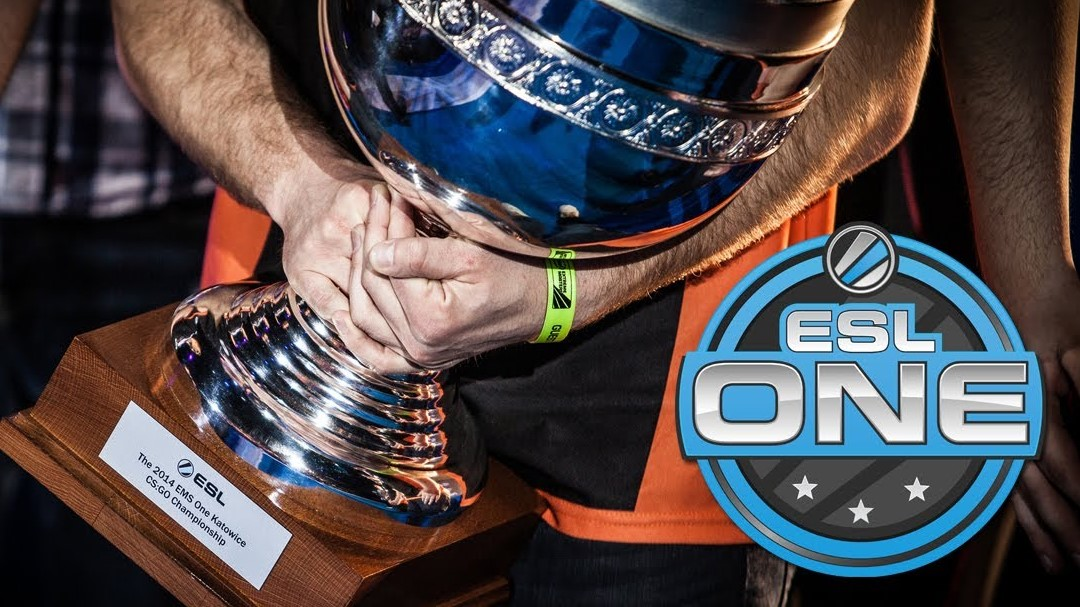
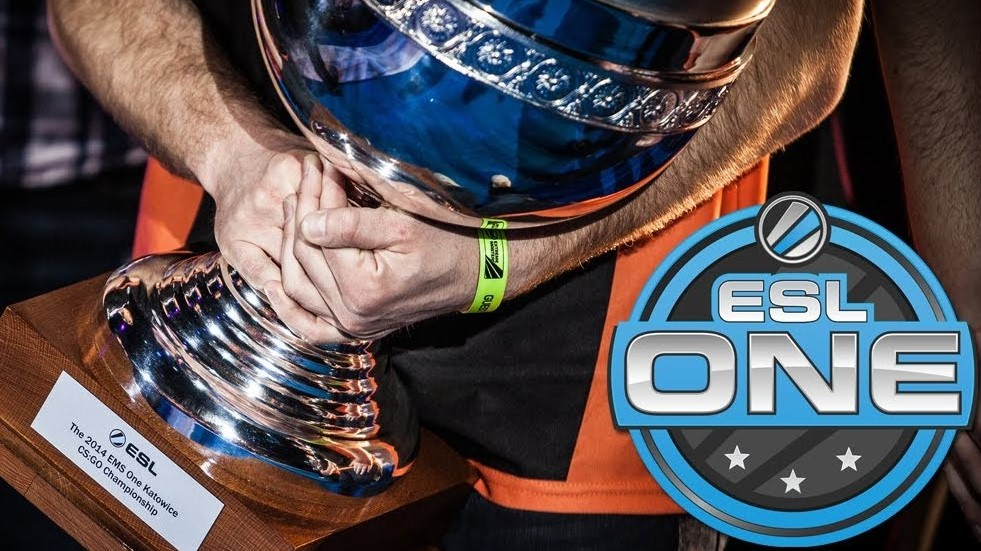
index imagee formatting, contact card formatting

diff --git a/contact.html b/contact.html
@@ -43,7 +43,7 @@
         <section class="hero is-black is-medium">
             <div class="hero-body heroBgContact">
               <div class="container">
-                <h1 class="title heroText">Meat the team! ;)</h1>
+                <h1 class="title heroText is-size-1">Team SD</h1>
               </div>
             </div>
         </section>
@@ -51,98 +51,105 @@
         <section class="section">
             <div class="container">
                 <div class="columns">
-                    <div class="card column">
-                        <div class="card-image">
-                          <figure class="image is-4by3">
-                            <img src="./images/areYouWorking.PNG" alt="Placeholder image">
-                          </figure>
-                        </div>
-                        <div class="card-content">
-                          <div class="media">
-                            <div class="media-content">
-                              <p class="title is-4">Matty McMattface</p>
-                              <p class="subtitle is-6">@wheaties5588</p>
-                            </div>
-                          </div>                      
-                          <div class="content">
-                            Lorem ipsum dolor sit amet, consectetur adipiscing elit.
-                            Phasellus nec iaculis mauris.<br> Don't just look it-- eat it!
+                  <div class="column">
+                      <div class="card box contactCard">
+                          <div class="card-image">
+                            <figure class="image is-4by3">
+                              <img src="./images/dota2logo.jpg" alt="mattGame">
+                            </figure>
                           </div>
-                        </div>
-                    </div>
-                    <div class="card column">
-                        <div class="card-image">
-                          <figure class="image is-4by3">
-                            <img src="./images/areYouWorking.PNG" alt="Placeholder image">
-                          </figure>
-                        </div>
-                        <div class="card-content">
-                          <div class="media">
-                            <div class="media-content">
-                              <p class="title is-4">Jasony McJasonface</p>
-                              <p class="subtitle is-6">@WRXjasonSTI</p>
+                          <div class="card-content">
+                            <div class="media">
+                              <div class="media-content">
+                                <p class="title is-4 contactText">Matt Wieciech<br>
+                                <a href="https://github.com/wheaties5588" target="_blank" class="content contactText">@wheaties5588</a></p>
+                              </div>
+                            </div>                      
+                            <div class="content contactText">
+                              Captain. Javascript Guru.
+                              <br>Game of Choice - Dota 2. 
+                              <br><br>Don't just look it-- eat it!
                             </div>
-                          </div>                      
-                          <div class="content">
-                            Lorem ipsum dolor sit amet, consectetur adipiscing elit.
-                            Phasellus nec iaculis mauris.<br> Don't just look it-- eat it!
                           </div>
-                        </div>
-                    </div>
-                    <div class="card column">
+                      </div>
+                  </div>
+
+                  <div class="column">
+                    <div class="card box contactCard">
                         <div class="card-image">
                           <figure class="image is-4by3">
-                            <img src="./images/areYouWorking.PNG" alt="Placeholder image">
+                            <img src="./images/lollogo.jpg" alt="andrewGame">
                           </figure>
                         </div>
                         <div class="card-content">
                           <div class="media">
                             <div class="media-content">
-                              <p class="title is-4">Andrewy McAndface</p>
-                              <p class="subtitle is-6">@johnsmith</p>
+                              <p class="title is-4 contactText">Andrew Raines<br>
+                              <a href="https://github.com/rainesand" target="_blank" class="content contactText">@rainesand</a></p>
                             </div>
                           </div>                      
-                          <div class="content">
-                            Lorem ipsum dolor sit amet, consectetur adipiscing elit.
-                            Phasellus nec iaculis mauris.<br> Don't just look it-- eat it!
-                          </div>
-                        </div>
-                    </div>
-                    <div class="card column">
-                        <div class="card-image">
-                          <figure class="image is-4by3">
-                            <img src="./images/areYouWorking.PNG" alt="Placeholder image">
-                          </figure>
-                        </div>
-                        <div class="card-content">
-                          <div class="media">
-                            <div class="media-content">
-                              <p class="title is-4">Brandony McBrandface</p>
-                              <p class="subtitle is-6">@johnsmith</p>
-                            </div>
-                          </div>                      
-                          <div class="content">
-                            Lorem ipsum dolor sit amet, consectetur adipiscing elit.
-                            Phasellus nec iaculis mauris.<br> Don't just look it-- eat it!
+                          <div class="content contactText">
+                            Lead Researcher. API Guru.
+                            <br>Game of Choice - League of Legends. 
+                            <br><br>Don't just look it-- eat it!
                           </div>
                         </div>
                     </div>
                 </div>
+
+                  <div class="column">
+                    <div class="card box contactCard">
+                        <div class="card-image">
+                          <figure class="image is-4by3">
+                            <img src="./images/pc2logo.jpg" alt="jasonGame">
+                          </figure>
+                        </div>
+                        <div class="card-content">
+                          <div class="media">
+                            <div class="media-content">
+                              <p class="title is-4 contactText">Jason Cruz<br>
+                              <a href="https://github.com/WRXjasonSTI" target="_blank" class="content contactText">@WRXjasonSTI</a></p>
+                            </div>
+                          </div>                      
+                          <div class="content contactText">
+                            Key Designer. CSS Guru.
+                            <br>Game of Choice - Project Cars 2. 
+                            <br><br>Don't just look it-- eat it!
+                          </div>
+                        </div>
+                    </div>
+                </div>
+
+                <div class="column">
+                  <div class="card box contactCard">
+                      <div class="card-image">
+                        <figure class="image is-4by3">
+                          <img src="./images/ssblogo.png" alt="brandonGame">
+                        </figure>
+                      </div>
+                      <div class="card-content">
+                        <div class="media">
+                          <div class="media-content">
+                            <p class="title is-4 contactText">Brandon Perez<br>
+                            <a href="https://github.com/bperez94" target="_blank" class="content contactText">@bperez94</a></p>
+                          </div>
+                        </div>                      
+                        <div class="content contactText">
+                          Foundation. HTML Architect.
+                          <br>Game of Choice - SSB Ultimate. 
+                          <br><br>Don't just look it-- eat it!
+                        </div>
+                      </div>
+                  </div>
+              </div>
+
+                </div>
             </div>
         </section>
         
-        <footer class="footer heroBgContact">
+        <footer class="footer">
             <div class="container">
                 <div class="columns is-mobile is-multiline">
-                    <div class="column is-half-mobile is-one-quarter-desktop">
-                        <h6 class="title is-5">Our Team</h6>
-                            <ul>
-                                <li><a href="https://github.com/wheaties5588" target="_blank"><strong>MW</strong> - Matt Wieciech</a></li>
-                                <li><a href="https://github.com/rainesand" target="_blank"><strong>AR</strong> - Andrew Raines</a></li>
-                                <li><a href="https://github.com/bperez94" target="_blank"><strong>BP</strong> - Brandon Perez</a></li>
-                                <li><a href="https://youtu.be/dQw4w9WgXcQ" target="_blank"><strong>JC</strong> - Jason Cruz</a></li>
-                            </ul>
-                    </div>
                     <div class="column is-half-mobile is-one-half-desktop">
                         <h6 class="title is-5">App Information</h6>
                         <p style="color: black;">Select Difficulty is a website built for entertainment, education, and live information. <br>

diff --git a/scripts/app.js b/scripts/app.js
@@ -61,7 +61,7 @@ $(document).ready(function () {
                  dropList.append(ddItem);
              }
                  
-             //Dropdown item on click evennt to pull tournaments
+             //Dropdown item on click event to pull tournaments
              $("#dropdownContent").on("click", function(ev) {
                 ev.preventDefault();
                 var target = $(ev.target);
@@ -77,7 +77,9 @@ $(document).ready(function () {
                 var tourneyName = $("<div>");
                 var tName = $("<p>");
                 var tUpcomingSub = $("<p>");
-                tourneyName.addClass("tournamentName")
+                tourneyName.addClass("tournamentName contactCard")
+                tName.addClass("contactText")
+                tUpcomingSub.addClass("contactText")
                 tName.text(response[index].serie.full_name + " - " + response[index].league.name  + " - " + response[index].name);
                 
                 if (game == "/ow/tournaments"){
@@ -91,9 +93,9 @@ $(document).ready(function () {
                 
                 for (i = 0; i < response[index].matches.length; i++) {
                     var div = $("<div>").addClass("matchupDiv");
-                    var name = $("<p>").addClass("matchupName");
-                    var time = $("<p>").addClass("matchupTime");
-                    var matchDate = $("<p>").addClass("matchupDate");
+                    var name = $("<p>").addClass("matchupName contactText");
+                    var time = $("<p>").addClass("matchupTime contactText");
+                    var matchDate = $("<p>").addClass("matchupDate contactText");
                     
                     
                     name.text(response[index].matches[i].name)

diff --git a/styles/styles.css b/styles/styles.css
@@ -148,8 +148,16 @@ h3 {
 }
 
 .heroBgContact {
-    background-image: url(../images/ourTeam.jpg);
+    background-image: url(../images/f1.jpg);
     background-repeat:  no-repeat;
     background-size:  cover;
     background-color: #999;
+}
+
+.contactCard {
+    background-color: #12121C;
+}
+
+.contactText {
+    color: #80E2E5;
 }

diff --git a/README.md b/README.md
@@ -1,26 +1,25 @@
-# Esports Tournament Tracker
-
+# SelectDifficulty - Esports Hub
+
+![Product Logo](./images/logo.PNG)
+
+link to the working product: https://wheaties5588.github.io/esports-tournament-tracker/
+
 #### Created On: 06/20/2020
 
 #### Creators
 Matt Wieciech- html/css/js/Twitch API  
+Andrew Raines- html/css/js/PandaScore API  
 Jason Cruz- html/css/js/Bulma CDN/js/PowerPoint  
 Brandon Perez- html/css//Bulma CDN/js  
-Andrew Raines- html/css/js/PandaScore API  
 
 ## Description and Features
-Select Difficulty is a mobile-friendly website tailored to both avid eSports fans as well as beginner fans who are open to being introduced to the world of competitive video gaming. Beginners can come to learn about the nuances of different games, watch gaming personalities, and be immersed in the competitive nature of major tournaments. This is done with the integration of the Twitch and PandaScore APIs.
+Select Difficulty is a mobile-friendly website tailored to both avid eSports fans as well as beginner fans who are open to being introduced to the world of competitive video gaming. Beginners can come to learn by watching gaming personalities, and be immersed in the competitive nature of major tournaments. This is done with regular website maintenance, and the integration of the Twitch and PandaScore APIs.  
 
-The Twitch API allows users to see which broadcasters are live an any given time based on the game they select. The PandaScore API allows us to relay ongoing tournament information for the selected game.
-
-## Mockup
-![Main Page](https://github.com/wheaties5588/esports-tournament-tracker/blob/RainesBranch/images/Main%20page%20Wireframe.png)
+The Twitch API allows users to see which broadcasters are live at any given time based on the selected game  
+![Main Page](https://github.com/wheaties5588/esports-tournament-tracker/blob/RainesBranch/images/Main%20page%20Wireframe.png)  
 
-![Esport selected page](https://github.com/wheaties5588/esports-tournament-tracker/blob/RainesBranch/images/selectedEsport%20Wireframe.png)
-
-## Known Bugs
-
-NA
+The PandaScore API allows users to relay ongoing tournament information for the selected game.  
+![Esport selected page](https://github.com/wheaties5588/esports-tournament-tracker/blob/RainesBranch/images/selectedEsport%20Wireframe.png)  
 
 ## Support and contact details
 
@@ -38,12 +37,7 @@ Bulma CDN
 PandaScore API  
 Twitch API  
 Moment.js  
-
-## Contribution Guidlines 
-
-Direct link to the working product: https://wheaties5588.github.io/esports-tournament-tracker/
 
-
 ### License
 
 Copyright(c) 2020 By Matthew Wieciech
